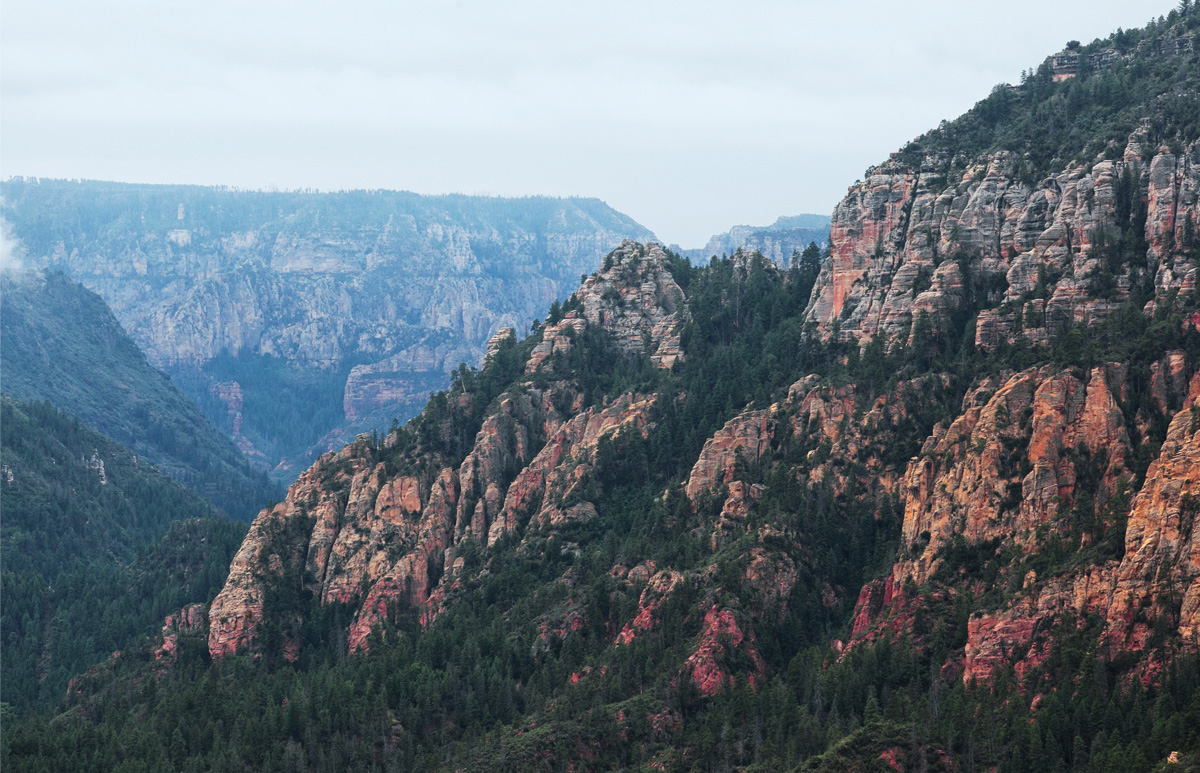
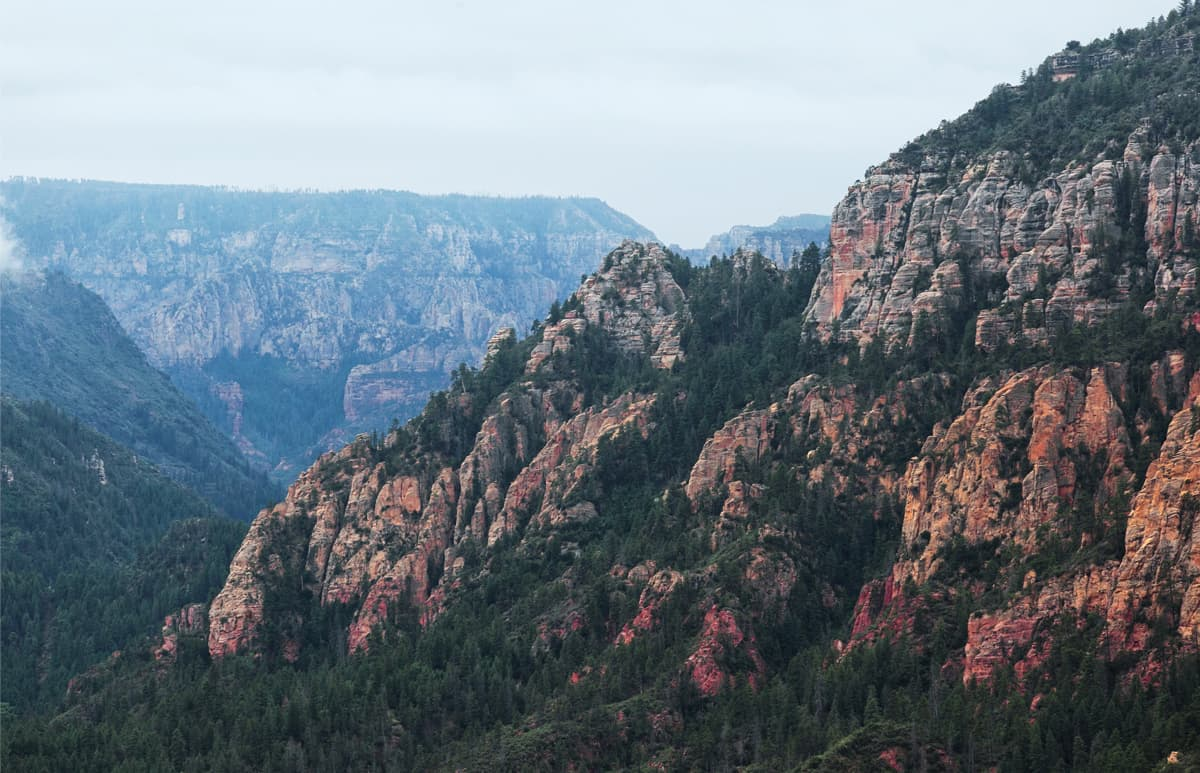
Оптимизация картинок
- Сжатие картинок через squoosh и svgomg
- Добавление маски на главную

Changed region(s): [[0.9867, 0.5589, 1.0, 0.5899]]

diff --git a/index.html b/index.html
@@ -15,33 +15,33 @@
                 <li class="heading-info"><a href="#">Информация</a></li>
                 <li class="heading-photo"><a href="#">Фото и видео</a></li>
                 <li class="heading-map"><a href="#">Карта штата</a></li>
-                <li class="heading-hotels"><a href="#">Гостиницы</a></li>
+                <li class="heading-hotels"><a href="hotels.html">Гостиницы</a></li>
             </ul>
         </nav>
 
     </header>
 
     <main>
-        <h1>Город Седона</h1>
-        <div class="main-logo">
+        <section class="main-logo">
+            <h1 class="visually-hidden">Город Седона</h1>
             <div class="main-info">
                 <h3>Седона - небольшой городок в Аризоне, заслуживающий большего!</h3>
                 <p>Рассмотрим 5 причин, по котороым Седона круче, чем Гранд Каньон!</p>
             </div>
-        </div>
+        </section>
         
         <section class="reason-1 clearfix">
-            <h2>Причина поехать в Седону №1</h2>
+            <h2 class="visually-hidden">Причина поехать в Седону №1</h2>
             <div class="container">
                 <h3>Настоящий<br> городок</h3>
                 <p>- №1 -</p>
                 <p>Седона - не аттракцион для туристов, там течет своя жизнь</p>
             </div>
-            <img src="img/Real_town.png" alt="Здание в Седоне на фоне горы" width="800" height="256">
+            <img src="img/Real_town.jpg" alt="Здание в Седоне на фоне горы" width="800" height="256">
         </section>
 
         <section class="features-1">
-            <h2>Преимущества Седоны</h2>
+            <h2 class="visually-hidden">Преимущества Седоны</h2>
             <ul class="clearfix">
                 <li class="feature-item feature-house">
                     <h3>Жилье</h3>
@@ -59,17 +59,17 @@
         </section>
 
         <section class="reason-2 clearfix">
-            <h2>Причины поехать в Седону №2</h2>
+            <h2 class="visually-hidden">Причины поехать в Седону №2</h2>
             <div class="container">
                 <h3>Там есть<br> мост дьявола</h3>
                 <p>-№2-</p>
                 <p>Да, по нему можно пройти! Если конечно вы осмелитесь</p>
             </div>
-            <img src="img/Devil_bridge.png" alt="Мост Дьявола">
+            <img src="img/Devil_bridge.jpg" alt="Мост Дьявола">
         </section>
 
         <section class="features-2">
-            <h2>Дополнительные причины поехать в Седоны</h2>
+            <h2 class="visually-hidden">Дополнительные причины поехать в Седоны</h2>
             <ul class="clearfix">
                 <li class="feature-item">
                     <h3>Небольшая площадь</h3>
@@ -101,29 +101,29 @@
         
 
         <div class="map-container">
-            <iframe src="https://www.google.com/maps/embed?pb=!1m18!1m12!1m3!1d913397.476070991!2d-112.10779643424395!3d34.910645313936264!2m3!1f0!2f0!3f0!3m2!1i1024!2i768!4f13.1!3m3!1m2!1s0x872da132f942b00d%3A0x5548c523fa6c8efd!2z0KHQtdC00L7QvdCwLCDQkNGA0LjQt9C-0L3QsCA4NjMzNiwg0KHQqNCQ!5e0!3m2!1sru!2sru!4v1580072172134!5m2!1sru!2sru" width="1200" height="593" frameborder="0" style="border:0;" allowfullscreen=""></iframe>
+            <img src="img/map.png" width="1200" height="593" alt="Адрес">
             <form action="https://echo.htmlacademy.ru/courses" method="post" class="clearfix">
                 <div class="container">
                     <label for="check-in">Дата заезда:</label>
                     <input type="date" name="date" id="check-in" value="2017-04-26">
                 </div>
-    
+
                 <div class="container">
                     <label for="check-out">Дата выезда:</label>
                     <input type="date" name="date" id="check-out" value="2017-07-04">
                 </div>
                 
-    
+
                 <div class="amount-adults">
                     <label for="adults">Взрослые:</label>
                     <input type="number" min="1" step="1" id="adults" value="2">
                 </div>
-    
+
                 <div class="amount-children">
                     <label for="children">Дети:</label>
                     <input type="number" min="0" step="1" id="children">
                 </div>
-    
+
                 <input type="submit" value="Найти">
             </form>
         </div>

diff --git a/hotels.html b/hotels.html
@@ -20,7 +20,7 @@
         </nav>
 		</header>
 		<main>
-			<div class="visibility-hidden"></div>
+			<div class="visually-hidden"></div>
 			<!--<form action="https://echo.htmlacademy.ru/courses" method="GET" >
 				<fieldset>
 					<legend>Инфраструктура</legend>
@@ -45,13 +45,13 @@
 								<td>От 4000 р.</td>
 							</tr>
 							<tr>
-								<td><button>Подробнее</button></td>
-								<td><button>Забронировать</button></td>
+								<td><button class="read-more">Подробнее</button></td>
+								<td><button class="reserve">Забронировать</button></td>
 							</tr>
 						</table>
 					</div>
 					<div class="hotel-rating">
-						<span>Рейтинг: 8,5</span>
+						<span class="rating">Рейтинг: 8,5</span>
 					</div>
 				</li>
 				<li>
@@ -66,13 +66,13 @@
 								<td>От 3000 р.</td>
 							</tr>
 							<tr>
-								<td><button>Подробнее</button></td>
-								<td><button>Забронировать</button></td>
+								<td><button class="read-more">Подробнее</button class="read-more"></td>
+								<td><button class="reserve">Забронировать</button class="reserve"></td>
 							</tr>
 						</table>
 					</div>
 					<div class="hotel-rating">
-						<span>Рейтинг: 8,9</span>
+						<span class="rating">Рейтинг: 8,9</span class="rating">
 					</div>
 				</li>
 				<li>
@@ -87,13 +87,13 @@
 								<td>От 2000 р.</td>
 							</tr>
 							<tr>
-								<td><button>Подробнее</button></td>
-								<td><button>Забронировать</button></td>
+								<td><button class="read-more">Подробнее</button class="read-more"></td>
+								<td><button class="reserve">Забронировать</button class="reserve"></td>
 							</tr>
 						</table>
 					</div>				  
 					<div class="hotel-rating">
-						<span>Рейтинг: 9,2</span>
+						<span class="rating">Рейтинг: 9,2</span class="rating">
 					</div>
 				</li>
 			</ul>

diff --git a/css/style.css b/css/style.css
@@ -27,13 +27,15 @@ ul {
   list-style: none;
 }
 
-h1,
-h2 {
-	position: absolute;
-  clip: rect(0 0 0 0);
+.visually-hidden {
+  position: absolute;
   width: 1px;
   height: 1px;
   margin: -1px;
+  border: 0;
+  padding: 0;
+  clip: rect(0 0 0 0);
+  overflow: hidden;
 }
 
 header {
@@ -102,14 +104,11 @@ header {
 .main-logo {
 	width: 1200px;
 	height: 717px;
-	background-image: url("../img/Group\ 1.png"), url("../img/Sedona_mountain.jpg");
-	background-position: 50% 76px, center;
-	background-repeat: no-repeat;
-	border-image-source: url("../img/mask.png");
-	background-clip: padding-box;
-  background-origin: content-box;
 	position: relative;
 	z-index: 100;
+	background-image: url("../img/mask.png"), url("../img/slogan.png"), url("../img/Sedona_mountain.jpg");
+	background-position: 50% 451px, 50% 76px, center;
+	background-repeat: no-repeat;
 }
 
 .main-info {
@@ -322,11 +321,6 @@ header {
 	height: 473px;
 	position: relative;
 }
-
-/*.map {
-	height: 593px;
-	background-image: url("../img/map.png");
-}*/
 
 /*-----------------ФОРМА START-----------------*/
 form {

diff --git a/css/style-hotels.css b/css/style-hotels.css
@@ -30,10 +30,13 @@ ul {
 h1,
 h2 {
 	position: absolute;
-  clip: rect(0 0 0 0);
   width: 1px;
   height: 1px;
-  margin: -1px;
+	margin: -1px;
+	border: none;
+	padding: 0;
+	clip: rect(0 0 0 0);
+	overflow: hidden;
 }
 
 header {
@@ -99,7 +102,7 @@ header {
 	color: #aca099;
 }
 
-.visibility-hidden {
+.visually-hidden {
 	height: 303px;
 	visibility: hidden;
 }
